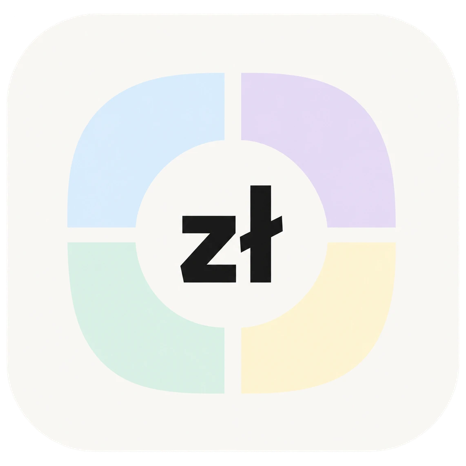
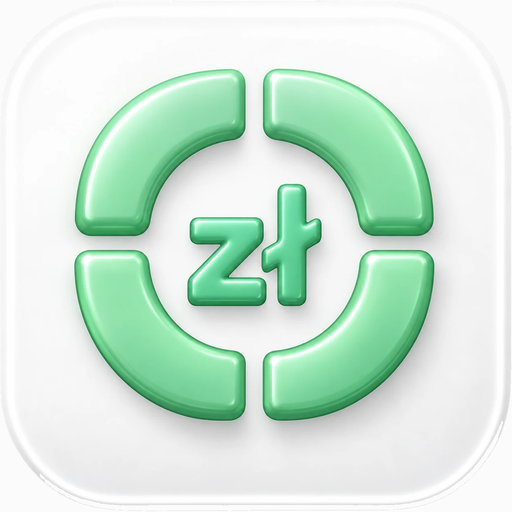
Nowe ikony Finansów i Fakturomatu

diff --git a/ui/index.html b/ui/index.html
@@ -297,7 +297,7 @@
       <ul class="apps">
         <li>
           <a class="app" data-id="fakturomat" href="https://faktury-filar.web.app" target="_blank" rel="noopener">
-            <span class="icon"><img src="ikony/fakturomat.svg" alt=""></span>
+            <span class="icon"><img src="ikony/fakturomat.png" alt=""></span>
             <span class="body">
               <span class="text">
                 <span class="name">Fakturomat</span>

diff --git a/CLAUDE.md b/CLAUDE.md
@@ -28,7 +28,7 @@ Plan i postęp: `PLAN.md`.
 | Czas pracy | Godziny pracy i rozliczenia | desktop, **w budowie** → kafelek wyszarzony „Wkrótce” | — |
 
 Kolejność kafelków: od najczęściej używanej (do potwierdzenia z tatą).
-Ikony: folder `ui/ikony/`, nazwy jak aplikacja, SVG lub PNG ≥512 px, kwadrat bez przezroczystego marginesu (inaczej przyciąć). Logo biura: `ui/ikony/biuro.svg`, w trybie ciemnym `biuro-ciemne.svg` (napis jasny, żółty bez zmian; filtr CSS psuł żółty). `fakturomat.svg` zrobiony przez Claude'a; Czas pracy na razie litera.
+Ikony: folder `ui/ikony/`, nazwy jak aplikacja, SVG lub PNG ≥512 px, kwadrat bez przezroczystego marginesu (inaczej przyciąć). Logo biura: `ui/ikony/biuro.svg`, w trybie ciemnym `biuro-ciemne.svg` (napis jasny, żółty bez zmian; filtr CSS psuł żółty). Czas pracy na razie litera.
 
 ## Układ (wzór: App Store → sekcja „Great New Productivity Apps”)
 
